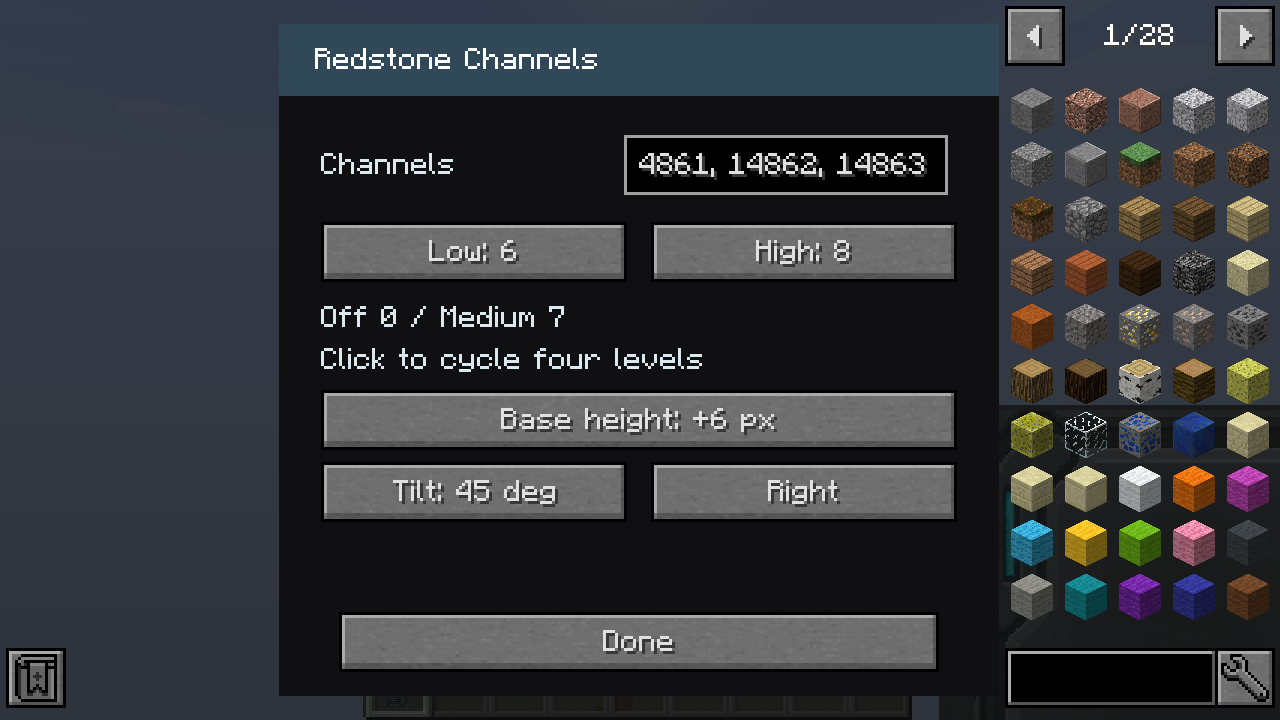
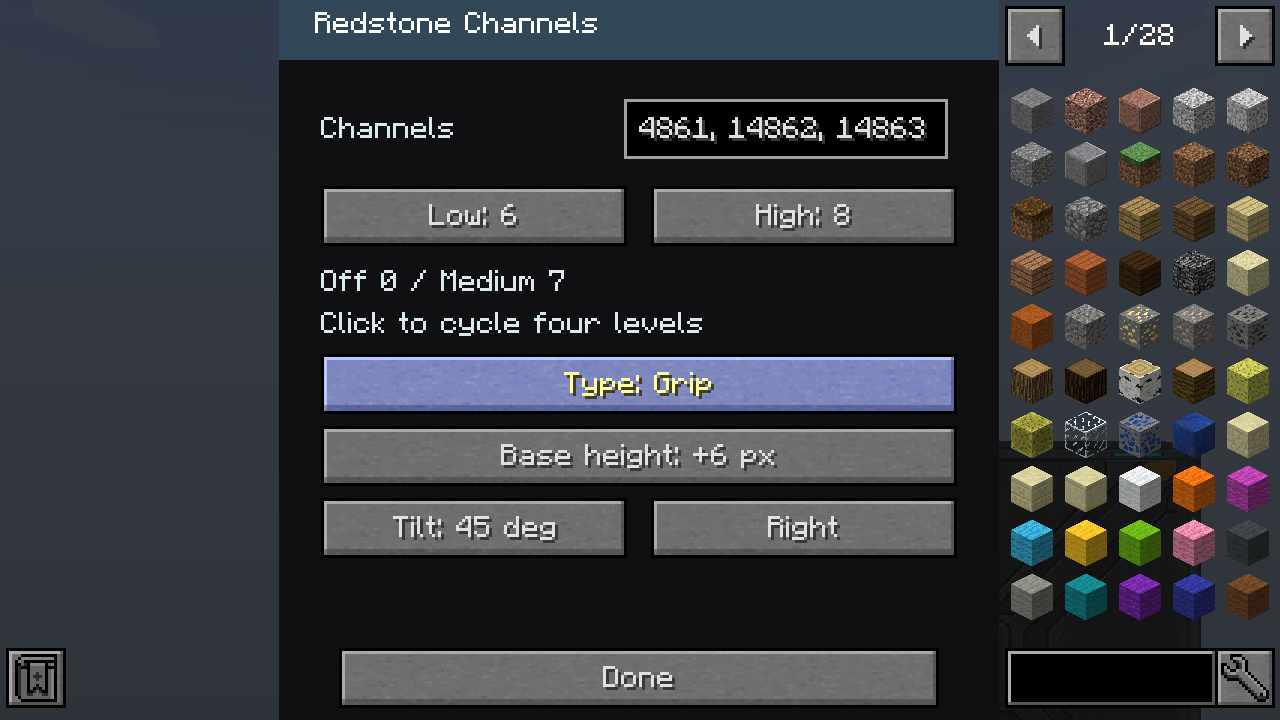
Name Thruster Lever types Standard, Twin and Grip

diff --git a/src/main/java/com/vandorlabs/client/GuiRedstoneChannel.java b/src/main/java/com/vandorlabs/client/GuiRedstoneChannel.java
@@ -149,7 +149,7 @@ public class GuiRedstoneChannel extends GuiContainer {
     }
 
     private int baseControlsY(){return signalControl?selectableType?146:122:powerLever?96:66;}
-    private String typeLabel(){return "Type: "+new String[]{"Thruster","Airliner","Fighter"}[controlType];}
+    private String typeLabel(){return "Type: "+new String[]{"Standard","Twin","Grip"}[controlType];}
     private String sizeLabel(){boolean twin=member.channelTile().getWorld().getBlockState(member.channelTile().getPos()).getBlock() instanceof com.vandorlabs.blocks.BlockTwinPowerLever;return "Size: "+(twin?(powerLeverSize==0?"Small":"Large"):(powerLeverSize==0?"Compact":"Industrial"));}
     private String heightLabel(){return "Base height: "+(baseHeight==0?"Standard":"+"+(baseHeight*2)+" px");}
     private String tiltLabel(){return "Tilt: "+(baseTilt==0?"Flat":baseTilt*15+" deg");}

diff --git a/testclient/export_gallery.py b/testclient/export_gallery.py
@@ -155,7 +155,7 @@ for name in ("small_power_lever","large_power_lever","compact_power_lever","indu
     for setting in ("raised_6px","raised_6px_tilted_45"):
         FOCUSED_SHOTS[f"controls_mount_{name}_{setting}"]=f"controls/{name.replace('_','-')}-{setting.replace('_','-')}.png"
 
-for index,name in ((0,"thruster-lever"),(2,"airliner-throttle"),(3,"fighter-throttle")):
+for index,name in ((3,"thruster-lever"),(0,"airliner-throttle"),(2,"fighter-throttle")):
     FOCUSED_SHOTS[f"channels_{index+9}"]=f"controls/{name}-config.png"
     for setting in ("standard","raised_2px","raised_4px","raised_6px","tilted_15","tilted_30","tilted_45","raised_6px_tilted_45"):
         FOCUSED_SHOTS[f"controls_mount_{name.replace('-','_')}_{setting}"]=f"controls/{name}-{setting.replace('_','-')}.png"

diff --git a/src/main/java/com/vandorlabs/VandorLabs.java b/src/main/java/com/vandorlabs/VandorLabs.java
@@ -24,7 +24,7 @@ public class VandorLabs {
     public static final String NAME = "Vandor Labs";
     public static final String VERSION = "1.7";
     /** Bump on every test build so logs identify the exact binary. */
-    public static final String BUILD_ID = "t129";
+    public static final String BUILD_ID = "t130";
 
     @Mod.Instance(MODID)
     public static VandorLabs instance;

diff --git a/docs/gallery/controls.md b/docs/gallery/controls.md
@@ -62,7 +62,7 @@ Craft one Rocker Switch with **one stick above one Industrial Alloy Ingot**.
 
 ## Signal-level controls
 
-Thruster Lever, Wall Slider, Airliner Throttle and Fighter Throttle have four
+Thruster Lever (Standard, Twin and Grip) and Wall Slider have four
 positions: Off, Low, Medium and High. Normal right-click cycles their levels;
 Creative-mode shift-right-click configures channels and low/high limits. Defaults
 are 0, 5, 10 and 15. Their numeric outputs drive physical redstone and shared
@@ -71,16 +71,15 @@ channels, including interactive screen sliders and Programmable Trigger blocks.
 Push Button and Rocker Switch share the compact palette and light-like cyan faces.
 Rocker Switch and Wall Slider use compact models reduced by 8%.
 All four detailed models mount on walls, floors and ceilings. The floor-mounted
-Wall Slider puts Off nearest the placing player. Airliner handles move together;
-Fighter buttons are decorative. See the [signal-level guide and GIF examples](version-1.6.md)
+Wall Slider puts Off nearest the placing player. Twin handles move together;
+Grip buttons are decorative. See the [signal-level guide and GIF examples](version-1.6.md)
 for lighting, propulsion and screen settings.
 
 ## Control base height and tilt
 
-Thruster Lever has three selectable types: **Thruster**, **Airliner** and
-**Fighter**. Open its configuration dialog and click **Type** to cycle them.
-All types share the same recipe and settings. Existing Airliner and Fighter
-controls keep their appearance. Type is preserved when saving, pick-block and
+Thruster Lever has three selectable types: **Standard**, **Twin** and
+**Grip**. Open its configuration dialog and click **Type** to cycle them.
+All types share the same recipe and settings. Existing controls keep their appearance. Type is preserved when saving, pick-block and
 breaking/replacing; the Duplifier’s **Signal Levels** option copies it.
 
 All three throttle types, **Wall Slider**, **Power Lever**, **Industrial Power
@@ -116,22 +115,22 @@ All pictures below use the Off detent so the mounting settings can be compared d
 | Control | Standard | +2 px | +4 px | +6 px |
 | --- | --- | --- | --- | --- |
 | Thruster Lever | ![Thruster Lever standard](../images/gallery/controls/thruster-lever-standard.png) | ![Thruster Lever raised 2 px](../images/gallery/controls/thruster-lever-raised-2px.png) | ![Thruster Lever raised 4 px](../images/gallery/controls/thruster-lever-raised-4px.png) | ![Thruster Lever raised 6 px](../images/gallery/controls/thruster-lever-raised-6px.png) |
-| Airliner Throttle | ![Airliner Throttle standard](../images/gallery/controls/airliner-throttle-standard.png) | ![Airliner Throttle raised 2 px](../images/gallery/controls/airliner-throttle-raised-2px.png) | ![Airliner Throttle raised 4 px](../images/gallery/controls/airliner-throttle-raised-4px.png) | ![Airliner Throttle raised 6 px](../images/gallery/controls/airliner-throttle-raised-6px.png) |
-| Fighter Throttle | ![Fighter Throttle standard](../images/gallery/controls/fighter-throttle-standard.png) | ![Fighter Throttle raised 2 px](../images/gallery/controls/fighter-throttle-raised-2px.png) | ![Fighter Throttle raised 4 px](../images/gallery/controls/fighter-throttle-raised-4px.png) | ![Fighter Throttle raised 6 px](../images/gallery/controls/fighter-throttle-raised-6px.png) |
+| Thruster Lever: Twin | ![Thruster Lever: Twin standard](../images/gallery/controls/airliner-throttle-standard.png) | ![Thruster Lever: Twin raised 2 px](../images/gallery/controls/airliner-throttle-raised-2px.png) | ![Thruster Lever: Twin raised 4 px](../images/gallery/controls/airliner-throttle-raised-4px.png) | ![Thruster Lever: Twin raised 6 px](../images/gallery/controls/airliner-throttle-raised-6px.png) |
+| Thruster Lever: Grip | ![Thruster Lever: Grip standard](../images/gallery/controls/fighter-throttle-standard.png) | ![Thruster Lever: Grip raised 2 px](../images/gallery/controls/fighter-throttle-raised-2px.png) | ![Thruster Lever: Grip raised 4 px](../images/gallery/controls/fighter-throttle-raised-4px.png) | ![Thruster Lever: Grip raised 6 px](../images/gallery/controls/fighter-throttle-raised-6px.png) |
 
 | Control | 15 degrees | 30 degrees | 45 degrees |
 | --- | --- | --- | --- |
 | Thruster Lever | ![Thruster Lever tilted 15 degrees](../images/gallery/controls/thruster-lever-tilted-15.png) | ![Thruster Lever tilted 30 degrees](../images/gallery/controls/thruster-lever-tilted-30.png) | ![Thruster Lever tilted 45 degrees](../images/gallery/controls/thruster-lever-tilted-45.png) |
-| Airliner Throttle | ![Airliner Throttle tilted 15 degrees](../images/gallery/controls/airliner-throttle-tilted-15.png) | ![Airliner Throttle tilted 30 degrees](../images/gallery/controls/airliner-throttle-tilted-30.png) | ![Airliner Throttle tilted 45 degrees](../images/gallery/controls/airliner-throttle-tilted-45.png) |
-| Fighter Throttle | ![Fighter Throttle tilted 15 degrees](../images/gallery/controls/fighter-throttle-tilted-15.png) | ![Fighter Throttle tilted 30 degrees](../images/gallery/controls/fighter-throttle-tilted-30.png) | ![Fighter Throttle tilted 45 degrees](../images/gallery/controls/fighter-throttle-tilted-45.png) |
+| Thruster Lever: Twin | ![Thruster Lever: Twin tilted 15 degrees](../images/gallery/controls/airliner-throttle-tilted-15.png) | ![Thruster Lever: Twin tilted 30 degrees](../images/gallery/controls/airliner-throttle-tilted-30.png) | ![Thruster Lever: Twin tilted 45 degrees](../images/gallery/controls/airliner-throttle-tilted-45.png) |
+| Thruster Lever: Grip | ![Thruster Lever: Grip tilted 15 degrees](../images/gallery/controls/fighter-throttle-tilted-15.png) | ![Thruster Lever: Grip tilted 30 degrees](../images/gallery/controls/fighter-throttle-tilted-30.png) | ![Thruster Lever: Grip tilted 45 degrees](../images/gallery/controls/fighter-throttle-tilted-45.png) |
 
 Existing 15-degree mounts keep that angle. Earlier 5-degree and 10-degree mounts use 15 degrees when loaded.
 
 Height and tilt can be combined. These examples use **+6 px** and **45 degrees**:
 
-| Thruster Lever | Airliner Throttle | Fighter Throttle |
+| Thruster Lever | Thruster Lever: Twin | Thruster Lever: Grip |
 | --- | --- | --- |
-| ![Thruster raised and tilted](../images/gallery/controls/thruster-lever-raised-6px-tilted-45.png) | ![Airliner raised and tilted](../images/gallery/controls/airliner-throttle-raised-6px-tilted-45.png) | ![Fighter raised and tilted](../images/gallery/controls/fighter-throttle-raised-6px-tilted-45.png) |
+| ![Thruster raised and tilted](../images/gallery/controls/thruster-lever-raised-6px-tilted-45.png) | ![Twin raised and tilted](../images/gallery/controls/airliner-throttle-raised-6px-tilted-45.png) | ![Grip raised and tilted](../images/gallery/controls/fighter-throttle-raised-6px-tilted-45.png) |
 
 The same upright extension and filled tilt wedge are available on these controls:
 

diff --git a/README.md b/README.md
@@ -181,10 +181,10 @@ the old suffixed IDs are not supported. Normal right-click cycles
 Off, Low, Medium and High. Shift-right-click opens the existing channel dialog
 with Low and High limits. Defaults are `0, 5, 10, 15`; Medium is the rounded midpoint.
 Low must be at least 1 and High must be at least two levels above Low, keeping
-four distinct outputs. The **Type** button selects **Thruster**, **Airliner** or
-**Fighter** on the same Thruster Lever item, preserving channels, limits, height,
-tilt and the current detent. Existing Airliner and Fighter controls retain
-their appearance. Airliner handles move together; small buttons are decorative. These controls
+four distinct outputs. The **Type** button selects **Standard**, **Twin** or
+**Grip** on the same Thruster Lever item, preserving channels, limits, height,
+tilt and the current detent. Existing controls retain
+their appearance. Twin handles move together; small buttons are decorative. These controls
 emit the selected level to physical redstone and every configured channel.
 Linked controls mirror channel values without rounding their output; the artwork
 shows the nearest positive detent. All four controls mount on walls, floors and

diff --git a/docs/gallery/version-1.7.md b/docs/gallery/version-1.7.md
@@ -34,7 +34,7 @@ The armor picker now includes **Custom...**, using the same non-consuming invent
 
 ## Throttle base height and tilt
 
-Thruster Lever, Airliner Throttle and Fighter Throttle now offer **Standard**,
+All three Thruster Lever types now offer **Standard**,
 **+2 px**, **+4 px** and **+6 px** base heights in their configuration dialog. Standard is
 the original minimum height. The mounting plate extends while the panel and
 handles move upward together, or outward from a wall/ceiling support.
@@ -99,10 +99,10 @@ height and tilt settings described below.
 
 ## One configurable throttle
 
-Craft **Thruster Lever**, then select **Type: Thruster/Airliner/Fighter** in its
+Craft **Thruster Lever**, then select **Type: Standard/Twin/Grip** in its
 configuration dialog. All three types share channels, signal limits, height
 and tilt settings. Changing type preserves these settings and the current
-detent. Existing Airliner and Fighter controls retain their appearance.
+detent. Existing controls retain their appearance.
 Pick-block, drops and the Duplifier’s **Signal Levels** option preserve type.
 
 ## Slim Glass doors

diff --git a/CHANGELOG.md b/CHANGELOG.md
@@ -2,6 +2,8 @@
 
 ## 1.7
 
+- Name Thruster Lever types Standard, Twin and Grip, preserving saved types and existing controls.
+
 - Replace the textured Push Button with a compact square recessed button that lights cyan while pressed. Keep its ID, one-alloy recipe and automatic release; share the solid height/tilt mounting options. Give Push Button and Rocker Switch cyan faces a simple bright highlight using the Industrial Power Lever indicator palette.
 
 - Reduce Rocker Switch and Wall Slider models by 8%, with matching collision and selection bounds.
